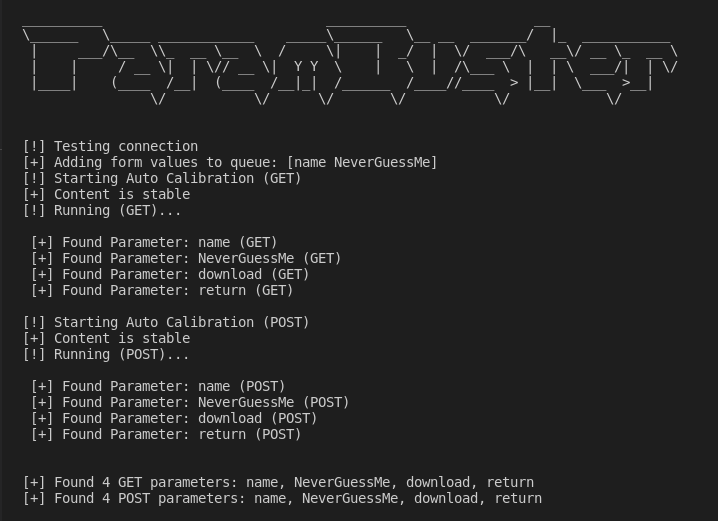
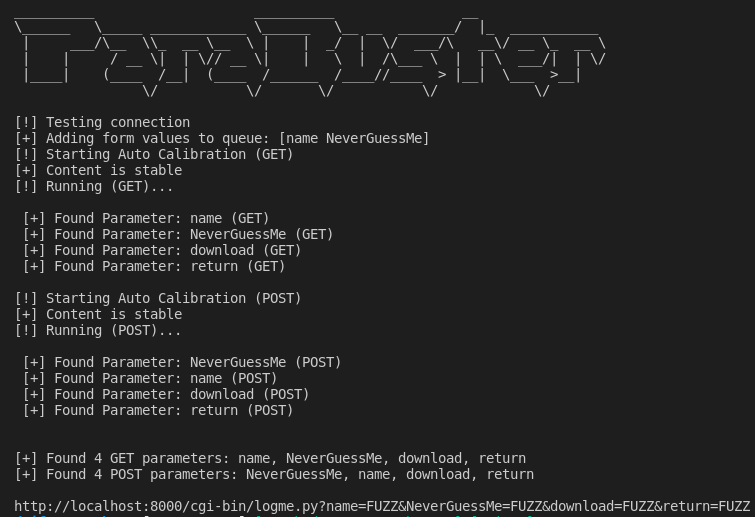
added url output

Changed region(s): [[0.0, 0.2166, 1.0, 1.0], [0.0306, 0.0309, 0.9499, 0.1857], [0.7967, 0.1547, 0.8273, 0.1857]]

diff --git a/main.go b/main.go
@@ -78,13 +78,13 @@ func paraUsage() {
 
 func header() {
 	header := `
-__________                            __________                __                
-\______   \_____ ____________    _____\______   \__ __  _______/  |_  ___________ 
- |     ___/\__  \\_  __ \__  \  /     \|    |  _/  |  \/  ___/\   __\/ __ \_  __ \
- |    |     / __ \|  | \// __ \|  Y Y  \    |   \  |  /\___ \  |  | \  ___/|  | \/
- |____|    (____  /__|  (____  /__|_|  /______  /____//____  > |__|  \___  >__|   
-                \/           \/      \/       \/           \/            \/       
-                                                                             
+	
+__________                    __________                __                
+\______   \_____ ____________ \______   \__ __  _______/  |_  ___________ 
+ |     ___/\__  \\_  __ \__  \ |    |  _/  |  \/  ___/\   __\/ __ \_  __ \
+ |    |     / __ \|  | \// __ \|    |   \  |  /\___ \  |  | \  ___/|  | \/
+ |____|    (____  /__|  (____  /______  /____//____  > |__|  \___  >__|   
+                \/           \/       \/           \/            \/       
 `
 	fmt.Println(header)
 }

diff --git a/find/find.go b/find/find.go
@@ -69,6 +69,13 @@ func FindMain() {
 	if len(FoundPost) > 0 {
 		fmt.Println("[+] Found", len(FoundPost), "POST parameters:", strings.Join(FoundPost, ", "))
 		fmt.Println()
+		tmp := *URL
+		tmp += "?"
+		for _, i := range FoundGet {
+			tmp += i + "=FUZZ&"
+		}
+		tmp = strings.TrimRight(tmp, "&")
+		fmt.Println(tmp)
 	} else {
 		fmt.Println("[-] No POST parameters found !!")
 	}
